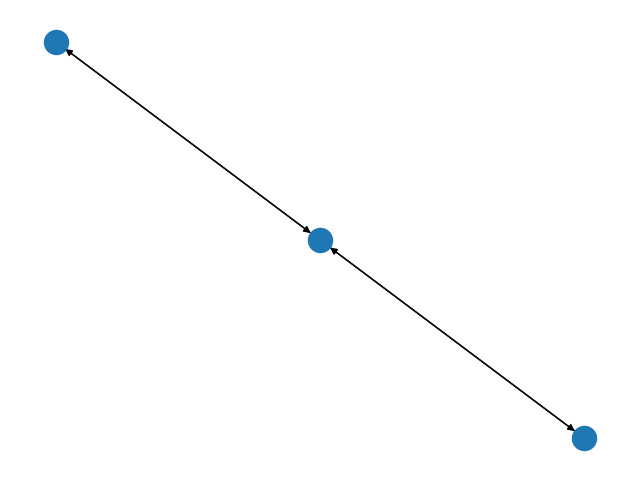
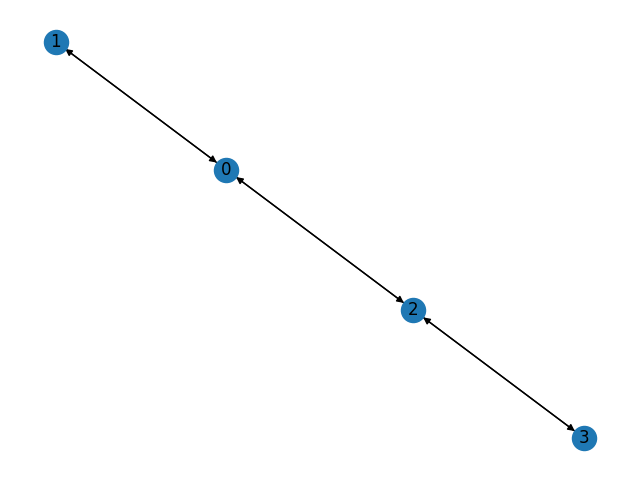
Added comment, changed similarity function and condition in the line 12

diff --git a/WLalg.py b/WLalg.py
@@ -2,8 +2,14 @@ import mmh3
 
 
 def wlalg(G, H):
+    '''
+    Tells if 2 graphs are isomorphic
+    :param networkx.Graph G: input graph
+    :param networkx.Graph H: input graph
+    :return: True/False
+    '''
     if (G.number_of_nodes() == H.number_of_nodes() and G.number_of_edges() == H.number_of_edges()):
-        if similarity(getCanonicalForm(G), getCanonicalForm(H)):
+        if (getCanonicalForm(G).keys() == getCanonicalForm(H).keys()):
             return True
         else:
             return False
@@ -11,25 +17,45 @@ def wlalg(G, H):
         return False
 
 
-def getSizes(M):#map M -> array of int, which contains sizes of values by each key, assigning to index
-    Stsz = []#array of sizes
-    for k in M:
-        Stsz.append(len(M[k]))
-    return Stsz
-def similarity(M1, M2):#map M1, map M2 -> True/False
+
+def similarity(M1, M2):
+    '''
+    Tells if 2 maps are similar
+    :param dictionary M1: input dictionary
+    :param dictionary M2: input dictionary
+    :return: True/False
+    '''
     if len(M1) == len(M2):
-        if getSizes(M1) == getSizes(M2):
-            return True
+        for el in M1.values():
+            if not(el in M2.values()):
+                return False
+        return True
     return False
 
 
-def init(G):
+def init(graph):
+    '''
+    Initialises array M and dictionary
+    :param networkx.Graph graph: input graph
+    :return: array of dictionary(-ies) M and dictionary C(colours)
+    '''
     M = [dict({0:set()})]
     C = dict()
-    for v in G.nodes:#
+    for v in graph.nodes:
         C.update({v:[1]})
     return M, C
+
 def getColours(graph, neighbours, colours, i, node):
+    '''
+    Returns string of neighbours' colours and adjacent edges' weights
+    :param networkx.Graph graph: input graph
+    :param list neighbours: neighbours of the node
+    :param dictionary colours: data of colours in a previous iteration
+    :param int i: iteration
+    :param int node: library's way to access node
+    :return: scolours
+    :rtype: str
+    '''
     scolours = ''
     array = []
     for el in neighbours:
@@ -40,28 +66,46 @@ def getColours(graph, neighbours, colours, i, node):
     return scolours
 
 def colouringNodes(graph, colours, i):
+    '''
+    Returns new colourings of nodes in the graph, preserving the old ones
+    :param networkx.Graph graph:
+    :param dictionary colours: data of colours in a previous iteration
+    :param int i: iteration
+    :return: dictionary colours
+    '''
     for node in graph.nodes:
         neighbours = graph.neighbors(node)
         colours[node].append(mmh3.hash(getColours(graph, neighbours, colours, i, node)))
     return colours
-def sortingNodes(C, i):
+def sortingNodes(colours, i):
+    '''
+    Sorts nodes by their colourings
+    :param dictionary colours: new colours
+    :param int i: iteration
+    :return: dictionary of sorted nodes
+    '''
     map = dict()
-    for node in C:
-        if C[node][i] in map:
-            map[C[node][i]].add(node)
+    for node in colours:
+        if colours[node][i] in map:
+            map[colours[node][i]].add(node)
         else:
-            map.update({C[node][i]: {node}})
+            map.update({colours[node][i]: {node}})
     map = dict(sorted(map.items(), key=lambda x:x[1]))
     return map
-def getCanonicalForm(G):#r
-    M, C = init(G)
+def getCanonicalForm(graph):
+    '''
+    Returns canonical form of the input graph
+    :param networkx.Graph graph: input graph
+    :return: dictionary M[i-1]
+    '''
+    M, C = init(graph)
     i = 1
-    while i < len(G.nodes):
-        C = colouringNodes(G, C, i)
+    while i < len(graph.nodes):
+        C = colouringNodes(graph, C, i)
         map = sortingNodes(C, i)
-        # print(map)
         M.append(map)
         if similarity(M[i-1], M[i]):
             break
         i += 1
+    M[i-1] = dict(sorted(M[i-1].items()))
     return M[i-1]

diff --git a/ut.py b/ut.py
@@ -1,10 +1,12 @@
 import unittest
-
+import sphinx
 import mmh3
-
+import numpy as np
 import WLalg
 import networkx as nx
+
 class MyTestCase(unittest.TestCase):
+
     def testSimilarity(self):
         M1 = {
             4:{"1022", "2321", "1231"},
@@ -15,12 +17,16 @@ class MyTestCase(unittest.TestCase):
             7: {"1343", "1242", "2343"}
         }
         self.assertTrue(WLalg.similarity(M1, M2))
-        #assfalse
-    def testGetSizes(self):
-        M = {
-            4:{"1", "2", "3"}
+        M1 = {
+            4: {"1022", "2321", "1231"},
+            5: {"1343", "1242", "2343"}
         }
-        self.assertEqual(WLalg.getSizes(M), [3])
+        M2 = {
+            6: {"1022", "2321", "1231", "1002"},
+            7: {"1343", "1242", "2343"}
+        }
+        self.assertFalse(WLalg.similarity(M1, M2))
+
     def testInit(self):
         graph = nx.path_graph(3)
         m,c = WLalg.init(graph)
@@ -28,21 +34,51 @@ class MyTestCase(unittest.TestCase):
         self.assertIsInstance(c, dict)
         self.assertEqual(1, len(m))
         self.assertEqual(3, len(c))
+
+    def testWLalg(self):
+        g = nx.path_graph(5)
+        h = g.copy()
+        self.assertTrue(WLalg.wlalg(g, h))
+        g = nx.from_numpy_array(np.array([[0, 1, 1, 0],
+                                          [1, 0, 0, 0],
+                                          [1, 0, 0, 1],
+                                          [0, 0, 1, 0]]), create_using=nx.DiGraph)
+        h = nx.from_numpy_array(np.array([[0, 0, 0, 1],
+                                          [0, 0, 1, 1],
+                                          [0, 1, 0, 0],
+                                          [1, 1, 0, 0]]), create_using=nx.DiGraph)
+        self.assertTrue(WLalg.wlalg(g, h))
+        g = nx.from_numpy_array(np.array([[0, 1, 1, 0],
+                                          [1, 0, 0, 1],
+                                          [1, 0, 0, 1],
+                                          [0, 0, 1, 0]]), create_using=nx.DiGraph)
+        h = nx.from_numpy_array(np.array([[0, 0, 0, 1],
+                                          [0, 0, 1, 1],
+                                          [0, 1, 0, 0],
+                                          [1, 1, 0, 0]]), create_using=nx.DiGraph)
+        self.assertFalse(WLalg.wlalg(g, h))
     def testGetCanonicalForm(self):
         G = nx.path_graph(5)
         CG = WLalg.getCanonicalForm(G)
-        #self.assertEqual({-1915682609: {0}, -1013786334: {2}, -706418556: {1}, 985128023: {3}, 1971917593: {4}}, CG)
+        hash1 = mmh3.hash(str(mmh3.hash('1{}1{}'))+'{}')
+        hash2 = mmh3.hash(str(mmh3.hash('1{}'))+'{}'+str(mmh3.hash('1{}1{}'))+'{}')
+        hash3 = mmh3.hash(str(mmh3.hash('1{}1{}'))+'{}'+str(mmh3.hash('1{}1{}'))+'{}')
+        self.assertEqual({hash3: {2}, hash2: {1, 3}, hash1: {0, 4}}, CG)
+
     def testGetColours(self):
         G = nx.path_graph(5)
         scolours = WLalg.getColours(G, G.neighbors(1), {0: [1], 1: [1], 2: [1], 3: [1], 4: [1]}, 1, 1)
         self.assertEqual('1{}1{}', scolours)
+
     def testColouringNodes(self):
         G = nx.path_graph(5)
         colours = WLalg.colouringNodes(G, {0: [1], 1: [1], 2: [1], 3: [1], 4: [1]}, 1)
         self.assertEqual({0: [1, mmh3.hash('1{}')], 1: [1, mmh3.hash('1{}1{}')], 2: [1, mmh3.hash('1{}1{}')], 3: [1, mmh3.hash('1{}1{}')], 4: [1, mmh3.hash('1{}')]}, colours)
+
     def testSortingNodes(self):
         C = {0: [1, -1], 1: [1, -2], 2: [1, -2], 3: [1, -2], 4: [1, -1]}
         map = WLalg.sortingNodes(C, 1)
         self.assertEqual({-1: {0, 4}, -2: {1, 2, 3}},map)
+
 if __name__ == '__main__':
     unittest.main()

diff --git a/main.py b/main.py
@@ -26,13 +26,14 @@ for size in range(30, 300):
         end = time.time()
         data[size].append(end-start)'''
 print(WLalg.wlalg(G,H))
+print(WLalg.getCanonicalForm(G), '\n', WLalg.getCanonicalForm(H))
 '''
 with open('data.csv', 'w', newline='') as f:
     w = csv.writer(f, delimiter=';')
     for key in data.keys():
         w.writerow([key]+data[key])
 '''
-''' for drawing graph
+ #for drawing graph
 layout = nx.spring_layout(G)
 nx.draw(G, layout, with_labels=True)
 #labels = nx.get_edge_attributes(G, "weight")
@@ -41,4 +42,4 @@ plt.savefig("graphH.png")
 plt.clf()
 nx.draw(G, with_labels=True)
 plt.savefig("graphG.png")
-'''
+
